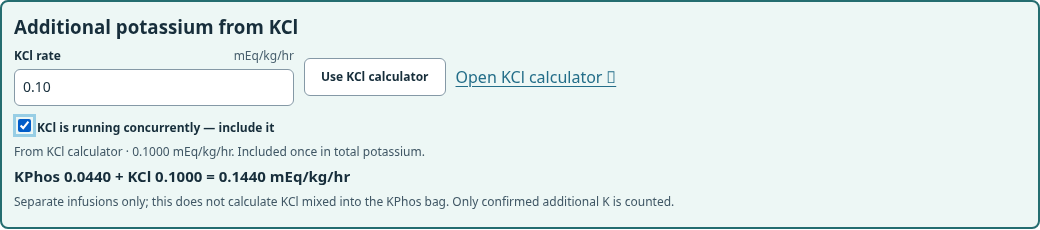
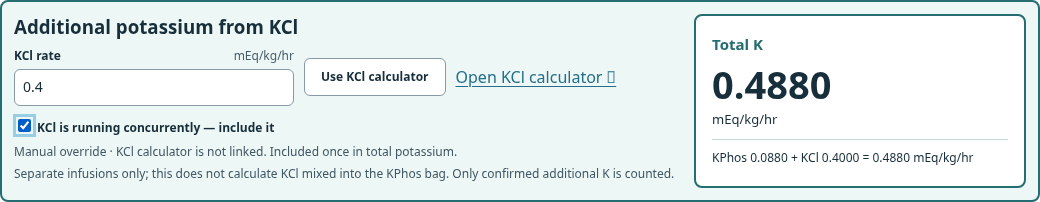
Give phosphate total potassium a prominent separate box

diff --git a/dist/phosphate.html b/dist/phosphate.html
@@ -1,1 +1,1 @@
-<!doctype html><html lang="en"><head><meta charset="utf-8"><meta name="viewport" content="width=device-width,initial-scale=1"><title>Phosphate · ER Reference</title><link rel="stylesheet" href="style.css"></head><body class="potassium-page electrolyte-compact" data-tool="phosphate"><header class="patient-header"><a class="brand" href="index.html">ER<span>REFERENCE</span></a><div class="master-patient" role="group" aria-label="Shared patient"><label>Species<select id="masterSpecies"><option value="">Select species</option><option value="dog">Dog</option><option value="cat">Cat</option></select></label><label>Weight · kg<input id="masterWeight" type="number" inputmode="decimal" min="0.001" step="any" placeholder="Patient kg"></label><button type="button" id="clearPatient">New patient / clear all</button><small id="patientSessionNote">Shared patient · this browser tab only</small></div><section class="shared-fluid" aria-label="Shared fluid plan"><div class="shared-fluid-top"><label for="sharedFluidRate">Fluid rate <span>mL/hr</span></label><input id="sharedFluidRate" type="number" min=".001" step="any" placeholder="From planner / enter rate" aria-describedby="sharedFluidStatus"><button type="button" id="useCalculatedFluid">Use calculated</button><a href="index.html">Fluid Planner ↗</a></div><div id="sharedFluidStatus" class="shared-fluid-status" role="status"></div><div id="sharedFluidBreakdown" class="shared-fluid-breakdown"></div><div id="sharedFluidAmounts" class="shared-fluid-amounts"></div></section></header><a class="skip-link" href="#main-content">Skip to content</a><aside class="sidebar" aria-label="Reference navigation"><details id="sectionMenu" open><summary>Sections <span>— Phosphate</span></summary><div class="sidebar-title">REFERENCE TOOLS</div><nav aria-label="Reference sections"><a href="index.html">Fluid Planner</a><details class="nav-group" open><summary>Additives / Electrolytes</summary><div class="nav-children"><a href="potassium.html">Potassium</a><a href="magnesium.html">Magnesium</a><a href="phosphate.html" aria-current="page">Phosphate<span class="current-page">Current</span></a><a href="sodium.html">Sodium</a><a href="dextrose.html">Dextrose</a></div></details><a href="chocolate.html">Chocolate Toxicity</a><a href="blood-collection.html">Blood Collection</a><details class="nav-group cri-nav"><summary>CRIs</summary><div class="nav-children"><a href="cri-fentanyl.html">Fentanyl</a><a href="cri-lidocaine.html"><span class="lidocaine-nav-label">Lidocaine</span><span class="cat-restriction" hidden>Unavailable for cats</span></a><a href="cri-ketamine.html">Ketamine</a><a href="cri-norepinephrine.html">Norepinephrine</a><a href="cri-insulin.html">Insulin</a><a href="cri-reglan.html">Reglan</a></div></details><a href="drugs.html">Drugs</a><a href="original-sheet.html">Original Sheet</a><a href="sources.html">Sources & Workbook Map</a></nav></details></aside><main id="main-content" class="electrolyte-main"><div class="eyebrow">FLUIDS / PHOSPHATE</div><h1>Phosphate</h1><p class="intro">Live KPhos preparation with its potassium contribution shown explicitly.</p><div class="notice compact-caution"><b>Use a compatible calcium-free carrier. Do not mix phosphate with LRS or calcium-containing solutions.</b> Dose bands match the workbook and the cited VetEmCrit author guidance. Choose a dose using the patient’s current phosphorus and clinical context. <a href="sources.html#phosphate-source">Sources</a>.</div><form data-electrolyte class="electrolyte-workspace"><section class="panel compact-inputs"><h2>Fluid & preparation</h2><section class="phosphate-kcl-panel" id="pKclPanel" aria-labelledby="pKclHeading"><h3 id="pKclHeading">Additional potassium from KCl</h3><div class="phosphate-kcl-controls"><label>KCl rate <span>mEq/kg/hr</span><input id="pKclRate" type="number" min="0" step="any" aria-describedby="pKclLinkStatus" placeholder="KCl calculator or manual rate"></label><button type="button" id="pKclUseCalculator">Use KCl calculator</button><a href="potassium.html">Open KCl calculator ↗</a></div><label class="phosphate-kcl-confirm"><input id="pKclActive" type="checkbox"> KCl is running concurrently — include it</label><p id="pKclLinkStatus" class="help" role="status"></p><strong id="pKclTotal" role="status">Total potassium: —</strong><p class="help">Separate infusions only; this does not calculate KCl mixed into the KPhos bag. Only confirmed additional K is counted.</p></section><div class="patient-grid"><label>Fluid rate <span>mL/hr</span><input id="pRate" type="number" min=".001" step="any" value="" required><span class="shared-rate-controls"><small id="pRateLinkStatus" role="status"></small><button id="pRateUseShared" type="button">Use shared rate</button></span></label><label>Preparation volume <span>mL</span><input id="pVolume" type="number" min=".001" step="any" value="" required><span class="volume-presets" role="group" aria-label="Quick volumes in mL" data-volume-for="pVolume"><button type="button" data-volume-target="pVolume" data-volume-value="12" aria-label="Set volume to 12 mL">12</button><button type="button" data-volume-target="pVolume" data-volume-value="250" aria-label="Set volume to 250 mL">250</button><button type="button" data-volume-target="pVolume" data-volume-value="500" aria-label="Set volume to 500 mL">500</button><button type="button" data-volume-target="pVolume" data-volume-value="1000" aria-label="Set volume to 1000 mL">1000</button><small>mL</small></span></label></div><div class="compact-settings-row"><details class="preparation-settings phosphate-options"><summary>Preparation method</summary><div class="grid"><label>Preparation method<select id="pMethod"><option value="final">Specified final volume — replace equal carrier volume</option><option value="add">Existing carrier volume — add additive on top</option></select></label><label hidden>Supplemental K from separate infusions <span>mEq/kg/hr</span><input id="pOtherK" type="number" min="0" step="any" value="0" required></label></div><p class="help">Carrier potassium is excluded. Additional K from separate infusions is entered above; KCl co-mixing in the KPhos bag is not calculated.</p></details><details class="stock-settings"><summary>Additive concentrations — locked by default</summary><div class="grid"><label>Phosphate additive <span>mmol/mL</span><input id="pStock" data-stock type="number" readonly min=".001" step="any" value="3" required></label><label>Potassium in the same additive <span>mEq/mL</span><input id="pKStock" data-stock type="number" readonly min="0" step="any" value="4.4" required></label></div><button type="button" data-lock="pStock,pKStock">Edit concentrations</button><span class="lock-state" data-lock-state="pStock,pKStock">Locked</span><p class="help">Both concentrations describe the same KPhos product. Verify both on its label. Editable potassium concentration is used in every calculation; no hardcoded 4.4 in the math.</p></details></div></section><section class="panel dose-reference live-reference compact-dose-chart"><h2>Choose by current phosphorus</h2><div class="table-wrap"><table><thead><tr><th>Current phosphorus</th><th>Phosphate rate<br>mmol/kg/hr</th><th class="meq-column">K from KPhos<br>mEq/kg/hr</th><th class="ml-column">KPHOS VOLUME TO ADD<br>mL additive</th></tr></thead><tbody><tr><th scope="row">2–2.7 mg/dL</th><td><div class="rate-options"><button type="button" class="lyte-rate" data-target="pDose" data-value="0.01" data-result="pResult"><span>Lower </span>0.01</button><button type="button" class="lyte-rate" data-target="pDose" data-value="0.02" data-result="pResult"><span>Upper </span>0.02</button></div></td><td id="pK0">—</td><td id="pMl0">— mL</td></tr><tr><th scope="row">1–2 mg/dL</th><td><div class="rate-options"><button type="button" class="lyte-rate" data-target="pDose" data-value="0.03" data-result="pResult"><span>Lower </span>0.03</button><button type="button" class="lyte-rate" data-target="pDose" data-value="0.06" data-result="pResult"><span>Upper </span>0.06</button></div></td><td id="pK1">—</td><td id="pMl1">— mL</td></tr><tr><th scope="row">&lt;1 mg/dL</th><td><div class="rate-options"><button type="button" class="lyte-rate" data-target="pDose" data-value="0.06" data-result="pResult"><span>Lower </span>0.06</button><button type="button" class="lyte-rate" data-target="pDose" data-value="0.12" data-result="pResult"><span>Upper </span>0.12</button></div></td><td id="pK2">—</td><td id="pMl2">— mL</td></tr></tbody></table></div><p class="help">The source bands meet at 2 mg/dL; choose in clinical context. No automatic band assignment. Combined entered supplemental K must not exceed this tool’s 0.5 mEq/kg/hr limit.</p><label>Selected / custom phosphate rate <span>mmol/kg/hr</span><input id="pDose" type="number" min="0" step="any" value="" required></label><button type="reset">Clear preparation</button></section><section class="panel results compact-result" id="pResultSection" tabindex="-1"><h2>Selected preparation</h2><div id="pResult" aria-live="polite"></div><section id="pKHeroPanel" tabindex="-1" class="compact-potassium-contribution" aria-labelledby="pKHeroTitle"><h2 id="pKHeroTitle">Potassium from this KPhos dose</h2><div class="contribution-grid" aria-live="polite"><div><span>K RATE FROM KPHOS</span><strong id="pKRateHero">—</strong><b>mEq/kg/hr</b></div><div><span>POTASSIUM PER HOUR</span><strong id="pKHourlyHero">—</strong><b>mEq/hr</b></div><div><span>POTASSIUM IN THIS PREPARATION</span><strong id="pKAmountHero">—</strong><b>mEq total</b></div></div><p id="pKHeroStatus" class="help">Select a phosphate rate to show its potassium contribution here.</p><p id="resultAssumptions" class="help result-assumptions">Assumes the entered phosphate and potassium additive concentrations are correct; native carrier-fluid potassium is excluded. KPhos contributes potassium even when phosphate is the treatment target. <a href="sources.html#phosphate-source">Details &amp; sources →</a></p></section><details id="pResultMath" class="worked-math"><summary>Show worked math</summary><ol id="pResultSteps"></ol></details></section></form><footer>Fluids-tab implementation · Sources reviewed October 17, 2026 · Independent clinical and browser validation pending. <a href="sources.html">Sources & workbook map</a>.</footer><label hidden>Weight <span>kg</span><input id="pWeight" type="number" min=".001" step="any" value="" required></label><details class="panel" id="concurrentPotassium"><summary>Optional · full potassium-source reconciliation</summary><p class="help">Explicitly select planned preparations confirmed as concurrently active. Opening a page does not activate it. Reconfirm inclusion after changing preparation inputs, patient or linked rate; this is not a medication administration record.</p><div class="concurrent-controls"><label><input id="includeKcl" type="checkbox"> Include KCl preparation</label><label><input id="includeKphos" type="checkbox"> Include KPhos preparation</label><label>Infusion arrangement<select id="concurrentArrangement"><option value="separate">Separate infusions</option><option value="same">Same bag — requires separate review</option></select></label><label><input id="allPotassiumSources" type="checkbox"> I have included all supplemental potassium sources</label></div><p id="concurrentContributions"></p><strong id="concurrentTotal">—</strong><p id="concurrentStatus" role="status"></p><p class="help">Assumes native carrier-fluid potassium is excluded, matching the existing preparation calculation. Each selected contribution is counted once; manually entered separate-K fields are checked against the counterpart and are not added again. This summary does not establish physical compatibility. <a href="potassium.html">KCl →</a> · <a href="phosphate.html">KPhos →</a> · <a href="sources.html#potassium-source">Sources →</a></p></details></main><script src="number-format.js"></script><script src="preparation-check.js"></script><script src="calc.js"></script><script src="electrolyte-calc.js"></script><script src="electrolyte-layout.js"></script><script src="electrolytes.js"></script><script src="navigation.js"></script><script src="patient-context.js"></script><script src="fluid-reference.js"></script><script src="volume-presets.js"></script><script src="concurrent-potassium.js"></script><script src="phosphate-kcl.js"></script></body></html>
+<!doctype html><html lang="en"><head><meta charset="utf-8"><meta name="viewport" content="width=device-width,initial-scale=1"><title>Phosphate · ER Reference</title><link rel="stylesheet" href="style.css"></head><body class="potassium-page electrolyte-compact" data-tool="phosphate"><header class="patient-header"><a class="brand" href="index.html">ER<span>REFERENCE</span></a><div class="master-patient" role="group" aria-label="Shared patient"><label>Species<select id="masterSpecies"><option value="">Select species</option><option value="dog">Dog</option><option value="cat">Cat</option></select></label><label>Weight · kg<input id="masterWeight" type="number" inputmode="decimal" min="0.001" step="any" placeholder="Patient kg"></label><button type="button" id="clearPatient">New patient / clear all</button><small id="patientSessionNote">Shared patient · this browser tab only</small></div><section class="shared-fluid" aria-label="Shared fluid plan"><div class="shared-fluid-top"><label for="sharedFluidRate">Fluid rate <span>mL/hr</span></label><input id="sharedFluidRate" type="number" min=".001" step="any" placeholder="From planner / enter rate" aria-describedby="sharedFluidStatus"><button type="button" id="useCalculatedFluid">Use calculated</button><a href="index.html">Fluid Planner ↗</a></div><div id="sharedFluidStatus" class="shared-fluid-status" role="status"></div><div id="sharedFluidBreakdown" class="shared-fluid-breakdown"></div><div id="sharedFluidAmounts" class="shared-fluid-amounts"></div></section></header><a class="skip-link" href="#main-content">Skip to content</a><aside class="sidebar" aria-label="Reference navigation"><details id="sectionMenu" open><summary>Sections <span>— Phosphate</span></summary><div class="sidebar-title">REFERENCE TOOLS</div><nav aria-label="Reference sections"><a href="index.html">Fluid Planner</a><details class="nav-group" open><summary>Additives / Electrolytes</summary><div class="nav-children"><a href="potassium.html">Potassium</a><a href="magnesium.html">Magnesium</a><a href="phosphate.html" aria-current="page">Phosphate<span class="current-page">Current</span></a><a href="sodium.html">Sodium</a><a href="dextrose.html">Dextrose</a></div></details><a href="chocolate.html">Chocolate Toxicity</a><a href="blood-collection.html">Blood Collection</a><details class="nav-group cri-nav"><summary>CRIs</summary><div class="nav-children"><a href="cri-fentanyl.html">Fentanyl</a><a href="cri-lidocaine.html"><span class="lidocaine-nav-label">Lidocaine</span><span class="cat-restriction" hidden>Unavailable for cats</span></a><a href="cri-ketamine.html">Ketamine</a><a href="cri-norepinephrine.html">Norepinephrine</a><a href="cri-insulin.html">Insulin</a><a href="cri-reglan.html">Reglan</a></div></details><a href="drugs.html">Drugs</a><a href="original-sheet.html">Original Sheet</a><a href="sources.html">Sources & Workbook Map</a></nav></details></aside><main id="main-content" class="electrolyte-main"><div class="eyebrow">FLUIDS / PHOSPHATE</div><h1>Phosphate</h1><p class="intro">Live KPhos preparation with its potassium contribution shown explicitly.</p><div class="notice compact-caution"><b>Use a compatible calcium-free carrier. Do not mix phosphate with LRS or calcium-containing solutions.</b> Dose bands match the workbook and the cited VetEmCrit author guidance. Choose a dose using the patient’s current phosphorus and clinical context. <a href="sources.html#phosphate-source">Sources</a>.</div><form data-electrolyte class="electrolyte-workspace"><section class="panel compact-inputs"><h2>Fluid & preparation</h2><section class="phosphate-kcl-panel" id="pKclPanel" aria-labelledby="pKclHeading"><div class="phosphate-kcl-entry"><h3 id="pKclHeading">Additional potassium from KCl</h3><div class="phosphate-kcl-controls"><label>KCl rate <span>mEq/kg/hr</span><input id="pKclRate" type="number" min="0" step="any" aria-describedby="pKclLinkStatus" placeholder="KCl calculator or manual rate"></label><button type="button" id="pKclUseCalculator">Use KCl calculator</button><a href="potassium.html">Open KCl calculator ↗</a></div><label class="phosphate-kcl-confirm"><input id="pKclActive" type="checkbox"> KCl is running concurrently — include it</label><p id="pKclLinkStatus" class="help" role="status"></p><p class="help">Separate infusions only; this does not calculate KCl mixed into the KPhos bag. Only confirmed additional K is counted.</p></div><section class="phosphate-total-k" id="pKclTotalBox" role="status" aria-labelledby="pKclTotalHeading"><h3 id="pKclTotalHeading">Total K</h3><strong id="pKclTotalValue">—</strong><span class="phosphate-total-unit">mEq/kg/hr</span><p id="pKclTotal">Total potassium: —</p></section></section><div class="patient-grid"><label>Fluid rate <span>mL/hr</span><input id="pRate" type="number" min=".001" step="any" value="" required><span class="shared-rate-controls"><small id="pRateLinkStatus" role="status"></small><button id="pRateUseShared" type="button">Use shared rate</button></span></label><label>Preparation volume <span>mL</span><input id="pVolume" type="number" min=".001" step="any" value="" required><span class="volume-presets" role="group" aria-label="Quick volumes in mL" data-volume-for="pVolume"><button type="button" data-volume-target="pVolume" data-volume-value="12" aria-label="Set volume to 12 mL">12</button><button type="button" data-volume-target="pVolume" data-volume-value="250" aria-label="Set volume to 250 mL">250</button><button type="button" data-volume-target="pVolume" data-volume-value="500" aria-label="Set volume to 500 mL">500</button><button type="button" data-volume-target="pVolume" data-volume-value="1000" aria-label="Set volume to 1000 mL">1000</button><small>mL</small></span></label></div><div class="compact-settings-row"><details class="preparation-settings phosphate-options"><summary>Preparation method</summary><div class="grid"><label>Preparation method<select id="pMethod"><option value="final">Specified final volume — replace equal carrier volume</option><option value="add">Existing carrier volume — add additive on top</option></select></label><label hidden>Supplemental K from separate infusions <span>mEq/kg/hr</span><input id="pOtherK" type="number" min="0" step="any" value="0" required></label></div><p class="help">Carrier potassium is excluded. Additional K from separate infusions is entered above; KCl co-mixing in the KPhos bag is not calculated.</p></details><details class="stock-settings"><summary>Additive concentrations — locked by default</summary><div class="grid"><label>Phosphate additive <span>mmol/mL</span><input id="pStock" data-stock type="number" readonly min=".001" step="any" value="3" required></label><label>Potassium in the same additive <span>mEq/mL</span><input id="pKStock" data-stock type="number" readonly min="0" step="any" value="4.4" required></label></div><button type="button" data-lock="pStock,pKStock">Edit concentrations</button><span class="lock-state" data-lock-state="pStock,pKStock">Locked</span><p class="help">Both concentrations describe the same KPhos product. Verify both on its label. Editable potassium concentration is used in every calculation; no hardcoded 4.4 in the math.</p></details></div></section><section class="panel dose-reference live-reference compact-dose-chart"><h2>Choose by current phosphorus</h2><div class="table-wrap"><table><thead><tr><th>Current phosphorus</th><th>Phosphate rate<br>mmol/kg/hr</th><th class="meq-column">K from KPhos<br>mEq/kg/hr</th><th class="ml-column">KPHOS VOLUME TO ADD<br>mL additive</th></tr></thead><tbody><tr><th scope="row">2–2.7 mg/dL</th><td><div class="rate-options"><button type="button" class="lyte-rate" data-target="pDose" data-value="0.01" data-result="pResult"><span>Lower </span>0.01</button><button type="button" class="lyte-rate" data-target="pDose" data-value="0.02" data-result="pResult"><span>Upper </span>0.02</button></div></td><td id="pK0">—</td><td id="pMl0">— mL</td></tr><tr><th scope="row">1–2 mg/dL</th><td><div class="rate-options"><button type="button" class="lyte-rate" data-target="pDose" data-value="0.03" data-result="pResult"><span>Lower </span>0.03</button><button type="button" class="lyte-rate" data-target="pDose" data-value="0.06" data-result="pResult"><span>Upper </span>0.06</button></div></td><td id="pK1">—</td><td id="pMl1">— mL</td></tr><tr><th scope="row">&lt;1 mg/dL</th><td><div class="rate-options"><button type="button" class="lyte-rate" data-target="pDose" data-value="0.06" data-result="pResult"><span>Lower </span>0.06</button><button type="button" class="lyte-rate" data-target="pDose" data-value="0.12" data-result="pResult"><span>Upper </span>0.12</button></div></td><td id="pK2">—</td><td id="pMl2">— mL</td></tr></tbody></table></div><p class="help">The source bands meet at 2 mg/dL; choose in clinical context. No automatic band assignment. Combined entered supplemental K must not exceed this tool’s 0.5 mEq/kg/hr limit.</p><label>Selected / custom phosphate rate <span>mmol/kg/hr</span><input id="pDose" type="number" min="0" step="any" value="" required></label><button type="reset">Clear preparation</button></section><section class="panel results compact-result" id="pResultSection" tabindex="-1"><h2>Selected preparation</h2><div id="pResult" aria-live="polite"></div><section id="pKHeroPanel" tabindex="-1" class="compact-potassium-contribution" aria-labelledby="pKHeroTitle"><h2 id="pKHeroTitle">Potassium from this KPhos dose</h2><div class="contribution-grid" aria-live="polite"><div><span>K RATE FROM KPHOS</span><strong id="pKRateHero">—</strong><b>mEq/kg/hr</b></div><div><span>POTASSIUM PER HOUR</span><strong id="pKHourlyHero">—</strong><b>mEq/hr</b></div><div><span>POTASSIUM IN THIS PREPARATION</span><strong id="pKAmountHero">—</strong><b>mEq total</b></div></div><p id="pKHeroStatus" class="help">Select a phosphate rate to show its potassium contribution here.</p><p id="resultAssumptions" class="help result-assumptions">Assumes the entered phosphate and potassium additive concentrations are correct; native carrier-fluid potassium is excluded. KPhos contributes potassium even when phosphate is the treatment target. <a href="sources.html#phosphate-source">Details &amp; sources →</a></p></section><details id="pResultMath" class="worked-math"><summary>Show worked math</summary><ol id="pResultSteps"></ol></details></section></form><footer>Fluids-tab implementation · Sources reviewed October 17, 2026 · Independent clinical and browser validation pending. <a href="sources.html">Sources & workbook map</a>.</footer><label hidden>Weight <span>kg</span><input id="pWeight" type="number" min=".001" step="any" value="" required></label><details class="panel" id="concurrentPotassium"><summary>Optional · full potassium-source reconciliation</summary><p class="help">Explicitly select planned preparations confirmed as concurrently active. Opening a page does not activate it. Reconfirm inclusion after changing preparation inputs, patient or linked rate; this is not a medication administration record.</p><div class="concurrent-controls"><label><input id="includeKcl" type="checkbox"> Include KCl preparation</label><label><input id="includeKphos" type="checkbox"> Include KPhos preparation</label><label>Infusion arrangement<select id="concurrentArrangement"><option value="separate">Separate infusions</option><option value="same">Same bag — requires separate review</option></select></label><label><input id="allPotassiumSources" type="checkbox"> I have included all supplemental potassium sources</label></div><p id="concurrentContributions"></p><strong id="concurrentTotal">—</strong><p id="concurrentStatus" role="status"></p><p class="help">Assumes native carrier-fluid potassium is excluded, matching the existing preparation calculation. Each selected contribution is counted once; manually entered separate-K fields are checked against the counterpart and are not added again. This summary does not establish physical compatibility. <a href="potassium.html">KCl →</a> · <a href="phosphate.html">KPhos →</a> · <a href="sources.html#potassium-source">Sources →</a></p></details></main><script src="number-format.js"></script><script src="preparation-check.js"></script><script src="calc.js"></script><script src="electrolyte-calc.js"></script><script src="electrolyte-layout.js"></script><script src="electrolytes.js"></script><script src="navigation.js"></script><script src="patient-context.js"></script><script src="fluid-reference.js"></script><script src="volume-presets.js"></script><script src="concurrent-potassium.js"></script><script src="phosphate-kcl.js"></script></body></html>

diff --git a/dist/electrolytes.js b/dist/electrolytes.js
@@ -66,12 +66,14 @@ function updateMagnesium(){
 }
 function updatePhosphate(){
   if(e('pKclTotal'))e('pKclTotal').textContent='Total potassium: —';
+  if(e('pKclTotalValue'))e('pKclTotalValue').textContent='—';
   for(const id of ['pKRateHero','pKHourlyHero','pKAmountHero'])e(id).textContent='—';
   e('pKHeroStatus').textContent='Choose a valid phosphate rate to show its potassium contribution.';
   const run=dose=>{const p={weight:number('pWeight'),fluidRate:number('pRate'),volume:number('pVolume'),phosStock:number('pStock'),kStock:number('pKStock'),otherK:number('pOtherK'),method:e('pMethod').value,dose};const r=phosphate(p);return {...r,verification:PreparationCheck.phosphate(p,r)};};
   chart([[.01,.02],[.03,.06],[.06,.12]],run,(i,values)=>{e('pK'+i).textContent=values.map(v=>v?format(v.verification.potassiumRate):'—').join(' – ');e('pMl'+i).textContent=values.map(v=>v?ml(v.additive):'— mL').join(' – ');},'pDose');
   attempt('pResult',()=>{
     const dose=number('pDose'),r=run(dose),weight=number('pWeight'),flow=number('pRate'),stock=number('pStock'),k=number('pKStock'),volume=number('pVolume'),other=number('pOtherK'),c=dose*weight/flow,verified=r.verification;
+    if(e('pKclTotalValue'))e('pKclTotalValue').textContent=verified.totalK.toFixed(4);
     if(e('pKclTotal'))e('pKclTotal').textContent=`KPhos ${verified.potassiumRate.toFixed(4)} + KCl ${other.toFixed(4)} = ${verified.totalK.toFixed(4)} mEq/kg/hr`;
     e('pKRateHero').textContent=format(verified.potassiumRate);e('pKHourlyHero').textContent=format(verified.potassiumRate*weight);e('pKAmountHero').textContent=format(verified.potassiumAmount,1);
     e('pKHeroStatus').textContent=`Selected phosphate rate: ${dose} mmol/kg/hr. Combined entered supplemental K, including separate infusions: ${format(verified.totalK)} mEq/kg/hr.`;

diff --git a/dist/style.css b/dist/style.css
@@ -488,3 +488,5 @@ body.blood-compact{background:#f4ecef}.blood-compact .blood-results .metric{bord
 #potassiumForm td>.k-rate-unavailable{max-width:340px;text-align:left;margin-top:8px;font-size:11px;white-space:normal}
 
 .phosphate-kcl-panel{grid-column:1/-1;border:2px solid #246d70;background:#edf7f5;border-radius:8px;padding:12px;margin:0 0 12px}.phosphate-kcl-panel h3{margin:0 0 8px}.phosphate-kcl-controls{display:flex;gap:10px;align-items:center;flex-wrap:wrap}.phosphate-kcl-controls label{margin:0;max-width:280px}.phosphate-kcl-controls button{font-size:12px}.phosphate-kcl-confirm{margin:10px 0 6px!important;max-width:none!important}.phosphate-kcl-confirm input{width:auto}.phosphate-kcl-panel .help{margin:5px 0;font-size:12px}.phosphate-kcl-panel>strong{display:block;font-size:15px}#concurrentPotassium>summary{margin-bottom:12px}
+
+.phosphate-kcl-panel{display:grid;grid-template-columns:minmax(0,2fr) minmax(220px,1fr);gap:16px}.phosphate-kcl-entry{min-width:0}.phosphate-total-k{min-width:0;background:#fff;border:2px solid #246d70;border-radius:8px;padding:16px;display:flex;flex-direction:column;justify-content:center}.phosphate-total-k h3{font-size:15px;color:#246d70}.phosphate-total-k>strong{font-size:38px;font-weight:800;line-height:1.15;font-variant-numeric:tabular-nums}.phosphate-total-unit{font-size:13px;margin:3px 0 10px}.phosphate-total-k #pKclTotal{font-size:12px;line-height:1.5;margin:0;border-top:1px solid #c4d8d7;padding-top:9px;overflow-wrap:anywhere}@media(max-width:800px){.phosphate-kcl-panel{grid-template-columns:minmax(0,1fr)}.phosphate-total-k>strong{font-size:34px}}@media print{.phosphate-total-k{break-inside:avoid}}

diff --git a/scripts/phosphate-kcl-layout.py b/scripts/phosphate-kcl-layout.py
@@ -9,6 +9,20 @@ if not r.all(lambda n:n.attrs.get('id')=='pKclPanel'):
  old.attrs['hidden']=None
  box=P('''<section class="phosphate-kcl-panel" id="pKclPanel" aria-labelledby="pKclHeading"><h3 id="pKclHeading">Additional potassium from KCl</h3><div class="phosphate-kcl-controls"><label>KCl rate <span>mEq/kg/hr</span><input id="pKclRate" type="number" min="0" step="any" aria-describedby="pKclLinkStatus" placeholder="KCl calculator or manual rate"></label><button type="button" id="pKclUseCalculator">Use KCl calculator</button><a href="potassium.html">Open KCl calculator ↗</a></div><label class="phosphate-kcl-confirm"><input id="pKclActive" type="checkbox"> KCl is running concurrently — include it</label><p id="pKclLinkStatus" class="help" role="status"></p><strong id="pKclTotal" role="status">Total potassium: —</strong><p class="help">Separate infusions only; this does not calculate KCl mixed into the KPhos bag. Only confirmed additional K is counted.</p></section>''').root.children[0]
  inputs=r.one(lambda n:n.cls('compact-inputs'));inputs.add(box,1)
+# Separate the total from entry controls without duplicating calculation state.
+box=r.byid('pKclPanel')
+if not r.all(lambda n:n.attrs.get('id')=='pKclTotalBox'):
+ breakdown=r.byid('pKclTotal');breakdown.remove();breakdown.tag='p';breakdown.attrs.pop('role',None)
+ entry=N('div',[('class','phosphate-kcl-entry')])
+ for child in list(box.children):
+  if isinstance(child,N):entry.add(child)
+  else:box.children.remove(child);entry.add(child)
+ box.add(entry)
+ total=box.add(N('section',[('class','phosphate-total-k'),('id','pKclTotalBox'),('role','status'),('aria-labelledby','pKclTotalHeading')]))
+ total.add(N('h3',[('id','pKclTotalHeading')],['Total K']))
+ total.add(N('strong',[('id','pKclTotalValue')],['—']))
+ total.add(N('span',[('class','phosphate-total-unit')],['mEq/kg/hr']))
+ total.add(breakdown)
 controls=r.one(lambda n:n.cls('phosphate-kcl-controls'))
 if not controls.all(lambda n:n.tag=='a'):
  controls.add(N('a',[('href','potassium.html')],['Open KCl calculator ↗']))
